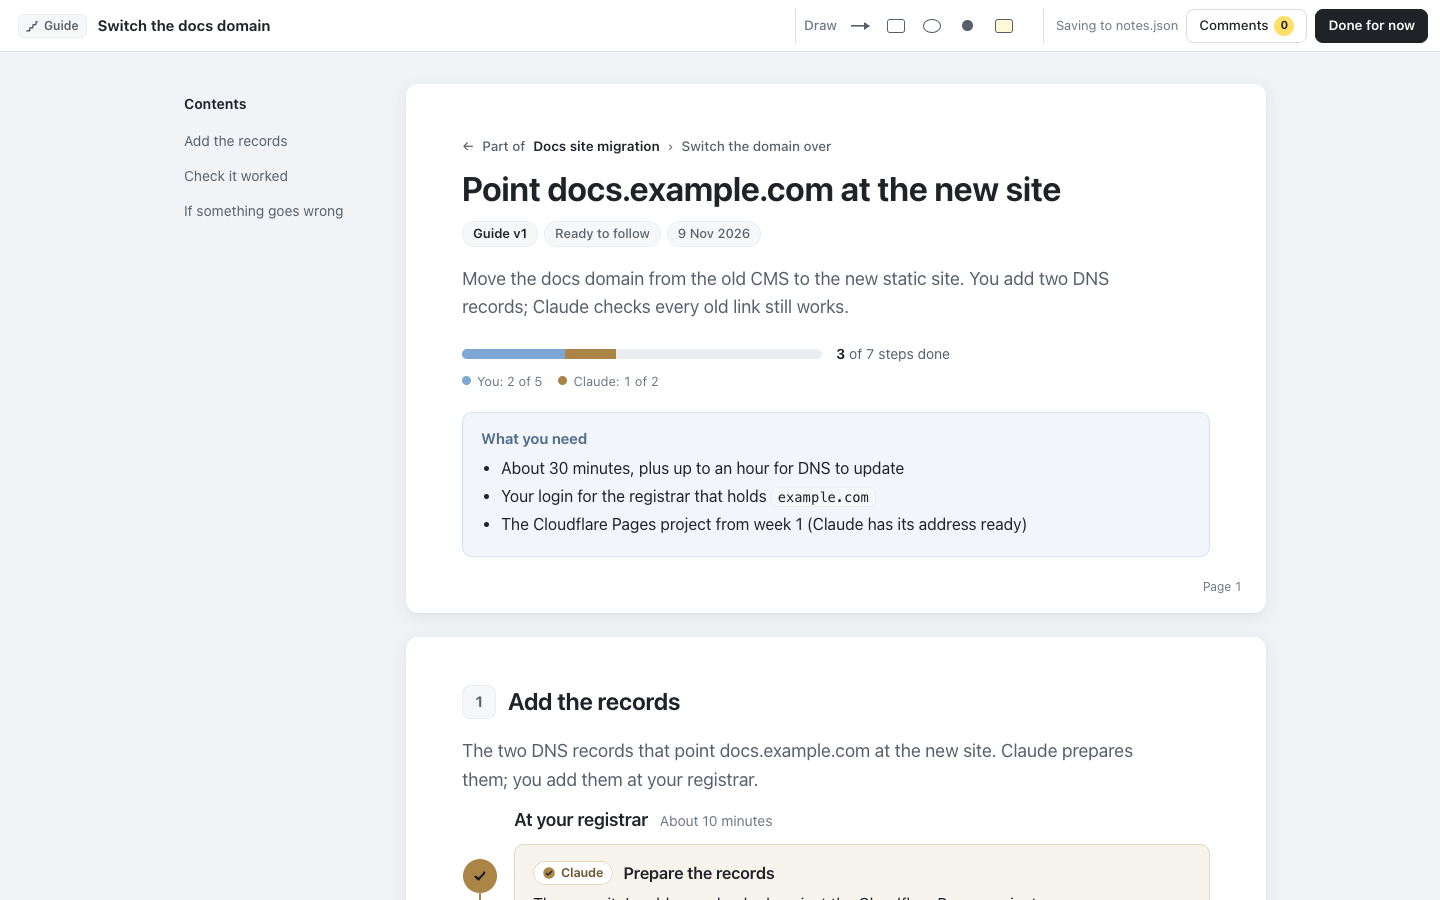
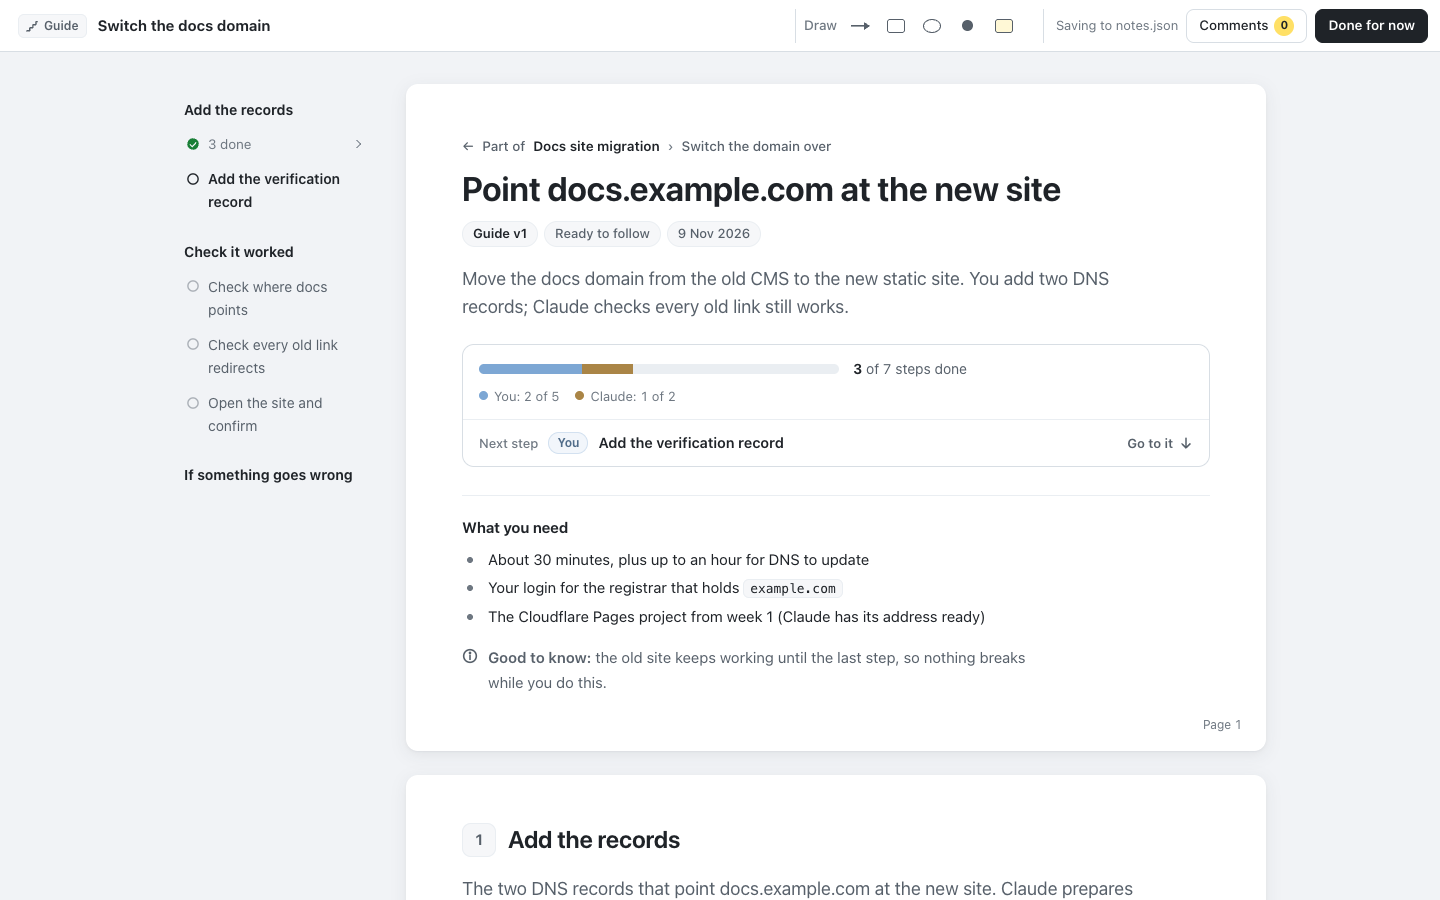
plan-maker 0.3.0: changelog, README, screenshots
Date the release notes and bring them to the final state, document the
parts, the rail, folding, Next step and the sidebar in the README,
regenerate the screenshots, and ignore .impeccable/.

diff --git a/README.md b/README.md
@@ -6,7 +6,8 @@ Ask Claude for a plan, to guide you through something, or to document how someth
 
 - **select any text → Comment**, **Ask Claude** or **More detail**, or use the same buttons on any block or section
 - on a plan, press **Make a guide** on any phase you want walked through
-- tick off **your part** with **Mark done**, and watch **Claude's** move from to do, to in progress, to done
+- tick off **your part** with **Mark done**, and watch **Claude's** move from to do, to in progress, to done (or mark Claude's done yourself)
+- see where you are at a glance: **Next step** under the progress bar jumps to what's next, the contents rail ticks off every step, and finished sections fold away
 - answer the pick-one **decisions** (Claude marks its recommendation)
 - **Draw** arrows, boxes, circles, points and sticky notes anywhere on the page, from tools always on screen in the top bar
 - write general notes
@@ -33,11 +34,11 @@ It works in any project. Plain HTML works too: a page without the conventions be
 
 All three are reviewed the same way, versioned the same way and listed in the same hub, in the same design.
 
-**Plans** say what happens, in what order, and who owns each part. Each phase is a card: blue if it's yours, gold if it's Claude's (Claude's can carry a short checklist so you see its progress). When your part of a phase needs steps, it gets a **guide**: the phase links to it, shows its progress, and is done when the guide is. Press **Make a guide** on a phase and Claude writes it in the next round.
+**Plans** say what happens, in what order, and who owns each part. A plan comes in parts, so explanation never sits between the work: **Information** (the why, the design, the risks), **Steps** (the phases), **Questions** (only while a decision is open) and a **Decision log** (what's been settled, and the project's ADRs). The contents rail lists every phase under Steps with a check once it's done. Each phase is a card: blue if it's yours, gold if it's Claude's (Claude's can carry a short checklist so you see its progress). When your part of a phase needs steps, it gets a **guide**: the phase links to it, shows its progress, and is done when the guide is. Press **Make a guide** on a phase and Claude writes it in the next round.
 
 ![A plan's phases: Claude's in gold with its checklist, yours in blue with Mark done and a guide requested, and one done through a guide that shows "3 of 7 steps done"](docs/phases.png)
 
-**Guides** are written to be followed: what you need first, then one action per step, with **Copy** on everything to paste, "You should see" and "If it fails" in the step. **Mark done** brings the next step into view. A guide made from a plan says so above its title and links back.
+**Guides** are written to be followed: what you need first, then one action per step, with **Copy** on everything to paste, "You should see" and "If it fails" in the step. **Mark done** brings the next step into view. The rail lists every step under its section, ticked off as you go, and a finished section folds to one line you can open again with a click. A guide made from a plan says so above its title and links back.
 
 ![A guide partway through: its plan and phase above the title, 3 of 7 steps done, and what you need](docs/guide.png)
 
@@ -47,7 +48,7 @@ All three are reviewed the same way, versioned the same way and listed in the sa
 
 Every page Claude writes is registered in one list across all your projects: `~/.plan-maker/registry.json`. Say **"show my plans"** or use `/plan-maker:plans` to open the hub.
 
-- **The sidebar** lists your projects, each with its pages underneath, marked plan, guide or reference. A guide made from a plan sits under it. Anything waiting on you comes first, then the rest by most recent. A filter shows all, or just plans, guides or references.
+- **The sidebar** lists your projects, each with its pages underneath. Each page is two lines: its kind and name, then what it wants from you ("Your turn: Make a folder to work in") or its status, with a blue dot when it's waiting on you. A guide made from a plan sits under it. **Pin** the projects you're working on to keep them at the top. Anything waiting on you comes first, then the rest by most recent. A filter shows all, or just plans, guides or references.
 - **The opening view** is everything waiting on you, across every project: pages to review, decisions to answer, notes and guide requests to hand back to Claude, your steps left ("3 of your steps left: Point DNS at Cloudflare"), and references gone out of date.
 - **A selected page** is the page itself, live, with its status (which you can change) and progress in its own top bar. Set it to **Done** or **Archived** and it moves to the collapsed "Done and archived" group. **Remove from hub…**, at the bottom of the same menu, takes it off the hub entirely; the page, its notes and versions stay on disk. A page that was deleted or moved has a **Remove from hub** button on its view.
 - **Running servers** lists every review server on this machine: its page, project and port, and whether a tab has it open. Orphans (a page that was deleted or moved, a second server for the same page) are flagged, and **Stop** works on one server, on the orphans, or on everything not in use. Servers also stop themselves after 12 hours with no tab open, and opening a page from the hub starts its server again.
@@ -250,7 +251,7 @@ npm test             # end-to-end tests in Chrome
 npm run screenshot   # regenerates the screenshots in docs/
 ```
 
-The tests drive the system Chrome (`/Applications/Google Chrome.app/…` on macOS; set `CHROME_PATH` elsewhere). They cover: selecting text and saving a note, highlights restored after a reload, comments on blocks and sections, questions, general notes, your steps and Claude's with both lanes, decisions, the server's host, content-type and path checks, reusing a running server, no horizontal scroll at phone width, no console errors, ids assigned to plain HTML, and the standalone bundle. For versions: snapshots (and refusing to overwrite one), the switcher, an old version read-only with its notes and disabled controls, a stale tab unable to save, the current version still saving, links between versions, an older page with its own review script, and `bundle --all-versions`. For kinds: the three templates sharing one style block, each kind's top bar, statuses and progress, phases following their guide, Make a guide and More detail, the links between a plan and its guides (on the server and in bundles), stale references, the hub's nesting and filter, and plans from before kinds still working (`test/fixtures/steps-plan.html`). For running servers: the record a server keeps, stopping itself when idle (and not while a tab pings it), reuse on any port, the hub's list, orphans and Stop, and the page saying when its server has stopped. These tests set `PLAN_MAKER_SCAN=off` so the hub only sees their own servers, never yours.
+The tests drive the system Chrome (`/Applications/Google Chrome.app/…` on macOS; set `CHROME_PATH` elsewhere). They cover: selecting text and saving a note, highlights restored after a reload, comments on blocks and sections, questions, general notes, your steps and Claude's with both lanes, decisions, the server's host, content-type and path checks, reusing a running server, no horizontal scroll at phone width, no console errors, ids assigned to plain HTML, and the standalone bundle. For versions: snapshots (and refusing to overwrite one), the switcher, an old version read-only with its notes and disabled controls, a stale tab unable to save, the current version still saving, links between versions, an older page with its own review script, and `bundle --all-versions`. For kinds: the three templates sharing one style block, each kind's top bar, statuses and progress, phases following their guide, Make a guide and More detail, the links between a plan and its guides (on the server and in bundles), stale references, the hub's nesting and filter, and plans from before kinds still working (`test/fixtures/steps-plan.html`). For running servers: the record a server keeps, stopping itself when idle (and not while a tab pings it), reuse on any port, the hub's list, orphans and Stop, and the page saying when its server has stopped. For the reading experience: Next step, the rail's step list and its checks, folding finished work, marking Claude's work done yourself, pinned projects, Copy inside the hub, Remove from hub, and `check.mjs` (a page pasted twice, the template's example left in, a plan's parts, a box on the cover). These tests set `PLAN_MAKER_SCAN=off` so the hub only sees their own servers, never yours.
 
 ## License
 

diff --git a/CHANGELOG.md b/CHANGELOG.md
@@ -1,6 +1,8 @@
 # Changelog
 
-## Unreleased
+## 0.3.0 (2026-11-14)
+
+Three kinds of page, one hub, and pages that show you where you are: plans, guides and references on one engine; a hub across every project; plans split into Information, Steps, Questions and a Decision log; a contents rail that ticks off every step; finished work that folds away; and writing rules every page is checked against.
 
 - **Finished work folds away.** A section whose steps are all done folds to its heading and one line ("All 4 steps done · Show"); a finished group of steps or a finished phase folds the same way; the rail folds each group's done steps into one row. One click opens any of them.
 - **The contents rail scrolls on its own** (it used to scroll only with the page, so a long rail's end was out of reach), and opens at the next step.
@@ -11,7 +13,7 @@
 - **A calmer hub sidebar.** Each page is a two-line row: its kind icon and name, then what it wants from you ("Your turn: Make a folder to work in") or its status. A blue dot marks what's waiting on you; the per-row and per-project counts are gone, and every icon and dot lines up in one column, guides included.
 - **A cleaner guide cover.** Progress and Next step share one outlined panel; What you need is a plain list under a hairline, with one optional **Good to know** line; the cover has no tinted boxes. `check.mjs` warns about a box on the cover.
 - **Next step, from the top.** On plans and guides, under the progress bar: the next step (or phase) to do, its owner and its title. Press it to jump there; the step rings once and its Mark done gets focus.
-- **A plan comes in three parts: Information, Steps and Questions.** Explanation, risks included, sits in Information; Steps holds only the phases, numbered 1, 2, 3; Questions holds the decisions. Each part opens with a heading on the desk, and the contents rail groups the sections under the three instead of one "Contents" list. `make-plan` writes plans this way, `process-notes` splits older plans the next time it revises them, and `check.mjs` warns about a plan without parts or with content, phases or decisions in the wrong one. Rules in `WRITING.md`, "A plan's three parts".
+- **A plan comes in parts: Information, Steps, Questions and a Decision log.** Explanation, risks included, sits in Information; Steps holds only the phases, numbered 1, 2, 3; Questions holds the open decisions; the log holds what's settled. Each part opens with a heading on the desk, and the contents rail groups the sections under the parts instead of one "Contents" list. `make-plan` writes plans this way, `process-notes` splits older plans the next time it revises them, and `check.mjs` warns about a plan without parts or with content, phases or decisions in the wrong one. Rules in `WRITING.md`, "A plan's parts".
 - **Plans, guides and references: three kinds of page on one engine.** A page says which it is with `<meta name="pm-kind" content="plan|guide|reference">`; a page without one is a plan. All three are reviewed, versioned and listed the same way, in the same design.
   - **Plans** break an idea into **phases** (`.phase[data-who]` in `<div class="phases">`), each owned by you, Claude or both, with an outcome ("Done when…"). Claude's phases can carry a short checklist (`ul.tasks`). Your phases get **Mark done**.
   - **Make a guide** on any phase asks Claude for a guide in the next round (`kind: "guide"` in `notes.json`). A phase linked to a guide (`data-guide`) shows the guide's name and progress, opens it, and is done when the guide is. Guides made from a plan live in its folder (`plans/<plan>/guides/<slug>/`) and link back (`pm-parent`, `pm-parent-phase`): "Part of <plan> › <phase>" above the title.
@@ -25,7 +27,7 @@
 - **New design** (DESIGN.md, PRODUCT.md): a calm, rounded page in the manner of Google Docs, in the system sans at 16px.
   - Every step is its own card: **blue for you**, **gold for Claude**, with an owner chip and icon. The same two colours run through the top-bar lanes and the hub.
   - Code blocks are dark, with a header showing their label (`<pre data-label="Terminal">`) and **Copy**.
-  - No section or gutter numbers. The comment panel starts closed. "Updated in vN" chips mark revised blocks.
+  - Numbers only where there's an order: a badge on each section, and the steps' and phases' timeline. Content is never numbered. The comment panel starts closed. "Updated in vN" chips mark revised blocks.
   - **Breaking for page styling:** the layer's tokens are now `--pm-you`, `--pm-claude`, `--pm-paper`, `--pm-ink` and friends. The old `--pm-accent` and `--pm-bg` are still honoured.
 - **Registry and hub**: every plan, guide and reference across all projects in one list (`~/.plan-maker/registry.json`, or `$PLAN_MAKER_HOME`). The hub nests a plan's guides under it, marks each page's kind, and filters by kind; `registry.mjs list --kind`.
   - `scripts/registry.mjs`: `add`, `update`, `list`, `show`, `remove`, `scan` and `prune`. Each entry has a name, goal, description, status (draft, reviewing, approved, in-progress, blocked, done, archived), next action and a dated progress log. Live facts are read from the page and `notes.json`: each owner's steps done, open decisions, unprocessed notes and why it's waiting on you.
